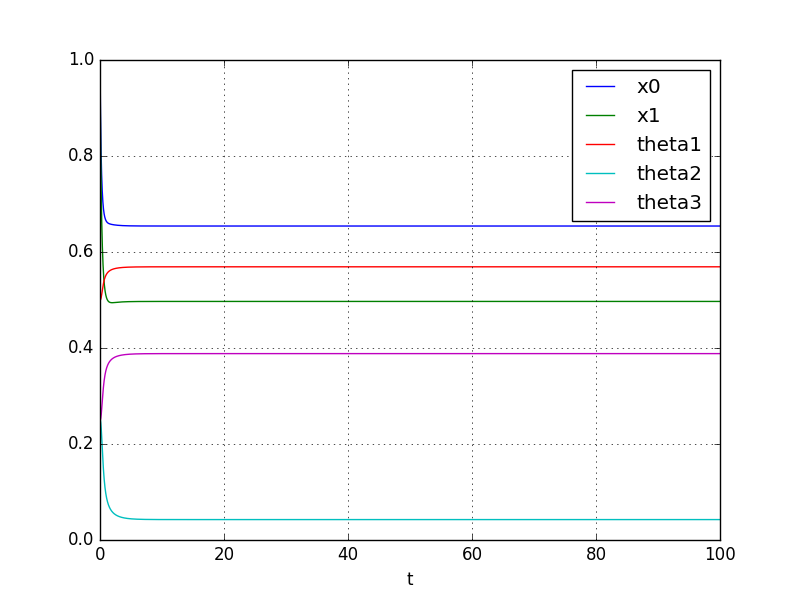
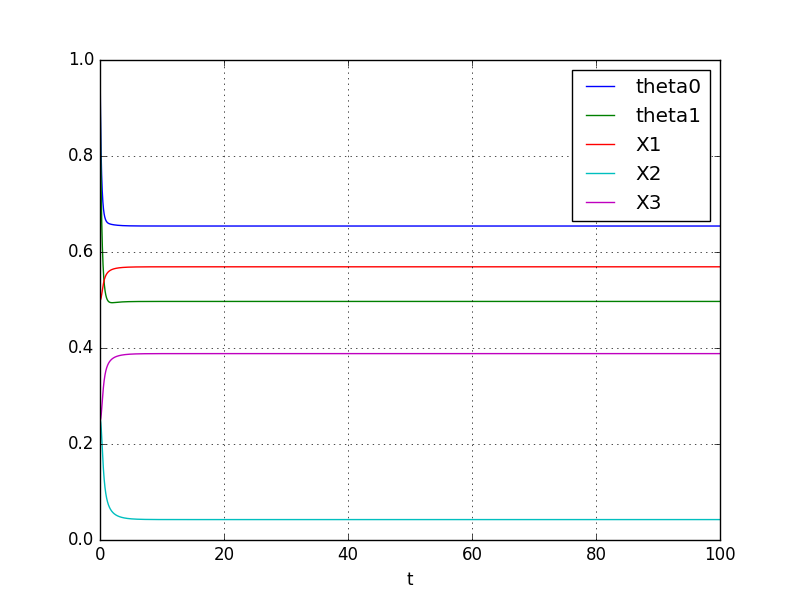
Minor changes in the plotting code, updated image too

Changed region(s): [[0.7812, 0.12, 0.875, 0.3], [0.7812, 0.33, 0.875, 0.36]]

diff --git a/main.py b/main.py
@@ -93,10 +93,10 @@ print np.sum(X*np.log(X/Y))
 params = A.shape[0];
 for i in range(sol.shape[1]):
 	if (i < params):
-		labeli = 'x' + str(i);
+		labeli = 'theta' + str(i);
 		plt.plot(t, sol[:, i], label=labeli)
 	else :
-		labeli = 'theta' + str(i+1-params)
+		labeli = 'X' + str(i+1-params)
 		plt.plot(t, sol[:, i],label=labeli)
 plt.legend(loc='best')
 plt.xlabel('t')
